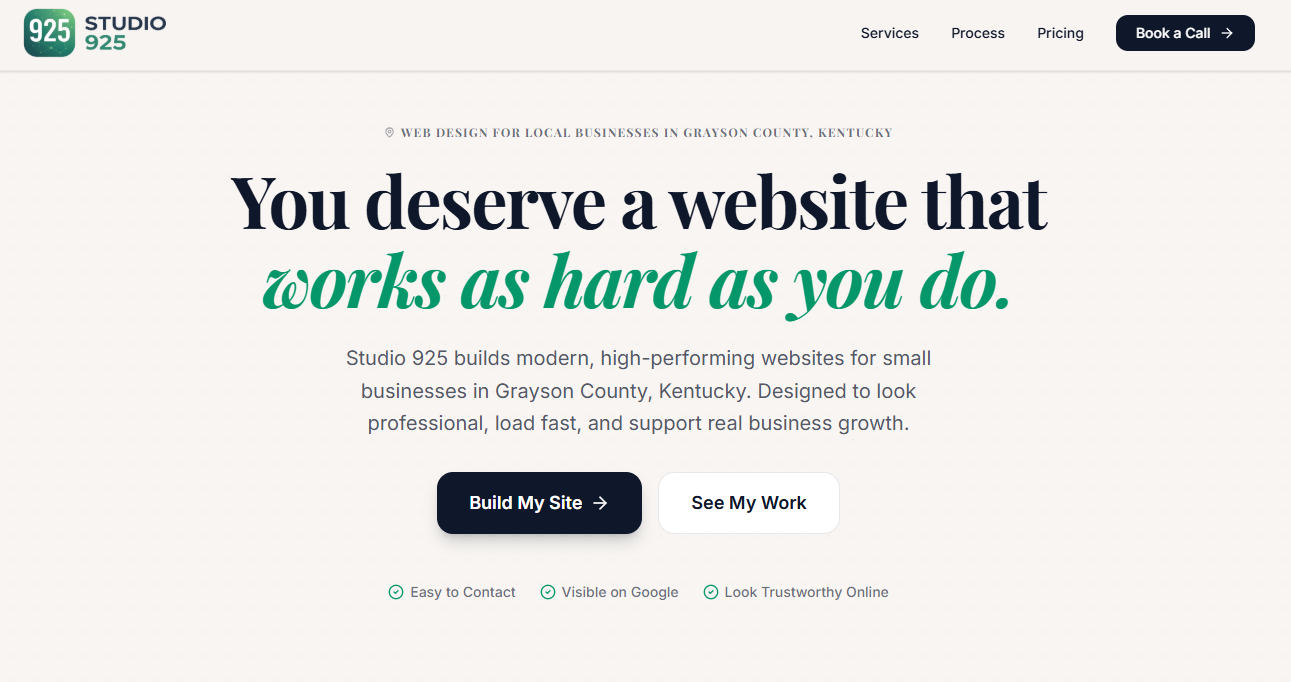
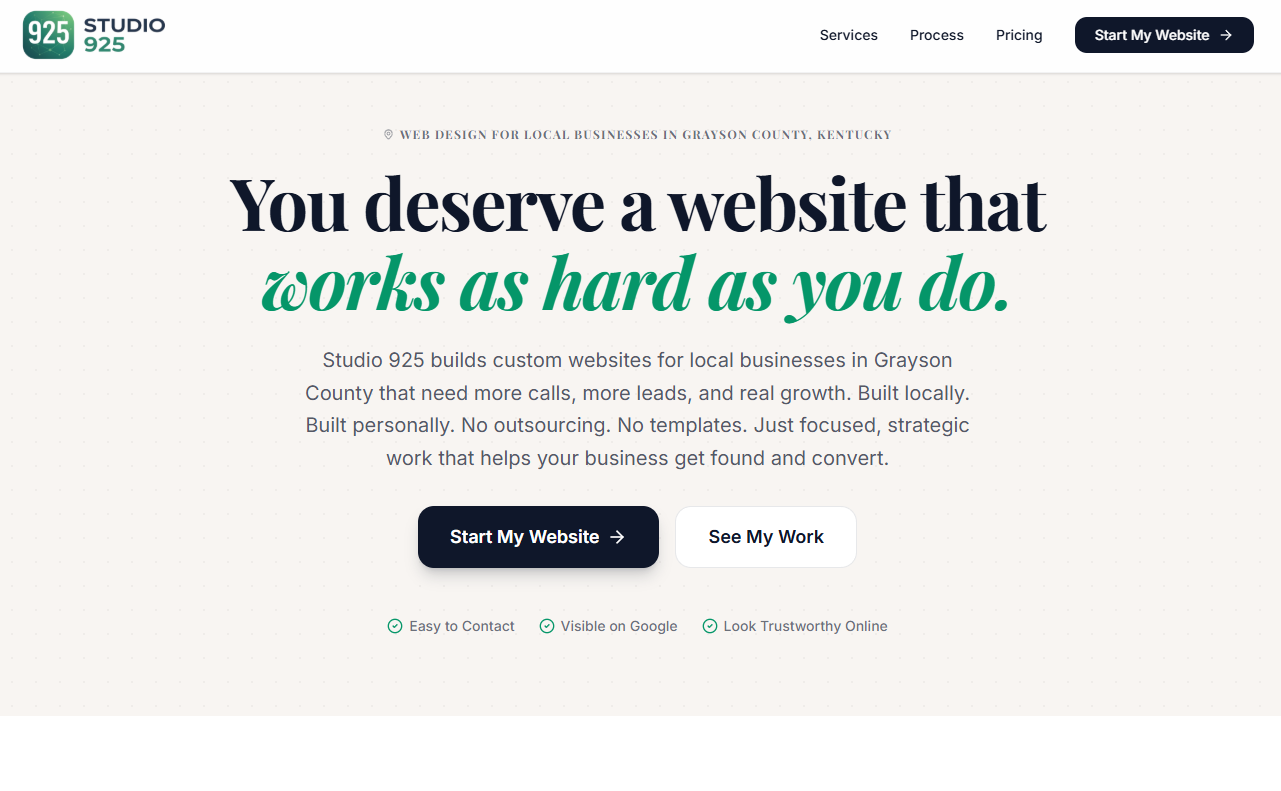
Sharpen copy, fix portfolio images, update CTA labels
- Rewrote hero, services, local section, and pricing copy for outcome-driven, authoritative tone
- Removed em dashes throughout
- Portfolio images: object-contain, fixed h-56, white bg, centered
- CTA labels: 'Build My Website' (nav + hero), 'Start My Project' (form button)
- Navbar logo size adjusted to prevent clipping
- Web3Forms integration with inline success state

diff --git a/src/components/Services.tsx b/src/components/Services.tsx
@@ -4,32 +4,32 @@ import { Layout, Zap, ShieldCheck, Search, Smartphone, Globe } from 'lucide-reac
 const services = [
   {
     title: "Custom-Built Website",
-    description: "A professionally designed website built around your business, not a cookie-cutter template. Designed to make the right first impression every time a potential customer looks you up.",
+    description: "Not a cookie-cutter template. Not a theme swap. Built specifically for your business so it looks right, says the right things, and works the way you need it to.",
     icon: Layout,
   },
   {
-    title: "Search-Ready Website Structure",
-    description: "Your website is built and structured properly so search engines can clearly understand your services and display your site accurately in search results.",
+    title: "Built to Show Up When Customers Search",
+    description: "Your site is structured so search engines understand exactly what you do and where you do it, which means more people find your business when they're actively looking for your services.",
     icon: Search,
   },
   {
-    title: "Mobile Optimization",
-    description: "Most customers check you out on their phone before they ever call. Your site will look and work exactly right on every screen size.",
+    title: "Designed for the Way People Actually Browse",
+    description: "Most customers decide on their phone before they ever call. Your site will look sharp and load fast on every screen. Period.",
     icon: Smartphone,
   },
   {
     title: "Speed & Security Optimization",
-    description: "A slow or broken site costs you customers before they read a single word. Yours will load fast, run clean, and stay online.",
+    description: "A slow or broken site loses customers before they read a single word. Yours loads fast, runs clean, and stays online.",
     icon: ShieldCheck,
   },
   {
     title: "Online Payments & Booking Integration",
-    description: "Let customers book, pay, or place orders directly from your site. Fewer calls chasing invoices. More revenue with less back-and-forth.",
+    description: "Let customers book appointments or pay invoices directly from your site. Less phone tag. More closed business.",
     icon: Zap,
   },
   {
     title: "Someone in Your Corner",
-    description: "You won't be left figuring it out alone. When something needs updating or something breaks, you've got someone to call.",
+    description: "You won't be handed a login and left to figure it out. When something needs updating or something breaks, you have someone to call.",
     icon: Globe,
   }
 ];

diff --git a/src/components/Hero.tsx b/src/components/Hero.tsx
@@ -23,12 +23,12 @@ export default function Hero() {
           </h2>
 
           <p className="text-[17px] md:text-xl text-brand-primary/70 mb-9 md:mb-8 max-w-2xl leading-relaxed mx-auto">
-            Studio 925 builds modern, high-performing websites for small businesses in Grayson County, Kentucky. Designed to look professional, load fast, and support real business growth.
+            Studio 925 builds custom websites for local businesses in Grayson County that need more calls, more leads, and real growth. Built locally. Built personally. No outsourcing. No templates. Just focused, strategic work that helps your business get found and convert.
           </p>
 
           <div className="flex flex-col sm:flex-row gap-3 sm:gap-4 justify-center">
             <a href="/#contact" className="bg-brand-primary text-white px-8 py-4 rounded-2xl text-lg font-semibold flex items-center justify-center gap-2 hover:scale-[1.02] transition-transform shadow-lg shadow-brand-primary/20">
-              Start My Website <ArrowRight size={20} />
+              Build My Website <ArrowRight size={20} />
             </a>
             <Link to="/portfolio" className="bg-white border border-brand-primary/10 px-8 py-4 rounded-2xl text-lg font-semibold hover:bg-brand-primary/5 transition-colors">
               See My Work

diff --git a/src/components/Contact.tsx b/src/components/Contact.tsx
@@ -52,7 +52,7 @@ export default function Contact() {
               <span className="italic text-brand-accent">searching for you.</span>
             </h2>
             <p className="text-xl text-white/70 mb-12 max-w-lg">
-              Tell me about your business. No pressure, no pitch — just an honest conversation about what would actually help you.
+              Tell me about your business. No pressure, no pitch. Just an honest conversation about what would actually help you.
             </p>
 
             <div className="space-y-6">
@@ -140,7 +140,7 @@ export default function Contact() {
                 disabled={status === 'sending'}
                 className="w-full bg-brand-primary text-white py-3 rounded-2xl font-bold flex items-center justify-center gap-2 hover:bg-brand-primary/90 transition-all group disabled:opacity-60"
               >
-                {status === 'sending' ? 'Sending...' : <>Start My Website <ArrowUpRight size={20} className="group-hover:translate-x-1 group-hover:-translate-y-1 transition-transform" /></>}
+                {status === 'sending' ? 'Sending...' : <>Start My Project <ArrowUpRight size={20} className="group-hover:translate-x-1 group-hover:-translate-y-1 transition-transform" /></>}
               </button>
             </form>
             )}

diff --git a/src/components/Navbar.tsx b/src/components/Navbar.tsx
@@ -20,7 +20,7 @@ export default function Navbar() {
           <a href="/#process" className="text-sm font-medium hover:text-brand-accent transition-colors">Process</a>
           <a href="/#pricing" className="text-sm font-medium hover:text-brand-accent transition-colors">Pricing</a>
           <a href="/#contact" className="bg-brand-primary text-white px-5 py-2 rounded-xl text-sm font-medium flex items-center gap-2 hover:bg-brand-primary/90 transition-all">
-            Start My Website <ArrowRight size={16} />
+            Build My Website <ArrowRight size={16} />
           </a>
         </div>
 
@@ -42,7 +42,7 @@ export default function Navbar() {
             <a href="/#process" onClick={() => setIsOpen(false)} className="text-lg font-medium">Process</a>
             <a href="/#pricing" onClick={() => setIsOpen(false)} className="text-lg font-medium">Pricing</a>
             <a href="/#contact" onClick={() => setIsOpen(false)} className="bg-brand-primary text-white w-full py-4 rounded-xl font-medium text-center">
-              Start My Website
+              Build My Website
             </a>
           </div>
         </motion.div>

diff --git a/src/components/LocalSection.tsx b/src/components/LocalSection.tsx
@@ -60,7 +60,10 @@ export default function LocalSection() {
               I work with contractors, service providers, retailers, restaurants, and anyone building something worth sharing. Local businesses don't need flashy tech for its own sake. They need websites that are clear, easy to use, and structured properly so customers can find and trust your business.
             </p>
             <p>
-              Whether you're in Leitchfield, Caneyville, Clarkson, or anywhere nearby, Studio 925 builds websites designed to support real, working businesses.
+              Whether you're in Leitchfield, Caneyville, Clarkson, or anywhere nearby, Studio 925 builds websites designed specifically for real, working Kentucky businesses.
+            </p>
+            <p>
+              When you work with Studio 925, you're working directly with the person building your site. No agencies. No outsourcing. No middlemen. If needed, we can sit down and talk through your goals in person. That level of access and accountability is hard to find online.
             </p>
           </div>
 

diff --git a/src/pages/Portfolio.tsx b/src/pages/Portfolio.tsx
@@ -128,11 +128,11 @@ export default function Portfolio() {
               >
                 {project.image && (
                   <div className="bg-brand-primary/5 p-3 md:p-6">
-                    <div className="h-48 rounded-xl overflow-hidden shadow-md shadow-brand-primary/10">
+                    <div className="h-56 rounded-xl overflow-hidden shadow-md shadow-brand-primary/10 bg-white flex items-center justify-center">
                       <img
                         src={project.image}
                         alt={`${project.title} screenshot`}
-                        className="w-full h-full object-cover object-top"
+                        className="w-full h-full object-contain object-center"
                       />
                     </div>
                   </div>

diff --git a/src/components/Pricing.tsx b/src/components/Pricing.tsx
@@ -72,7 +72,8 @@ export default function Pricing() {
     <section id="pricing" className="py-24 px-6">
       <div className="max-w-7xl mx-auto">
         <div className="text-center mb-16">
-          <h2 className="text-4xl md:text-5xl mb-4">Invest in a website <span className="italic text-brand-accent">that works for you.</span></h2>
+          <h2 className="text-4xl md:text-5xl mb-4">Every serious local business needs a website <span className="italic text-brand-accent">that works.</span></h2>
+          <p className="text-brand-primary/50 text-lg mt-3">Custom-built. Fixed pricing. No surprises.</p>
         </div>
 
         <div className="grid lg:grid-cols-3 gap-14 lg:gap-8">
